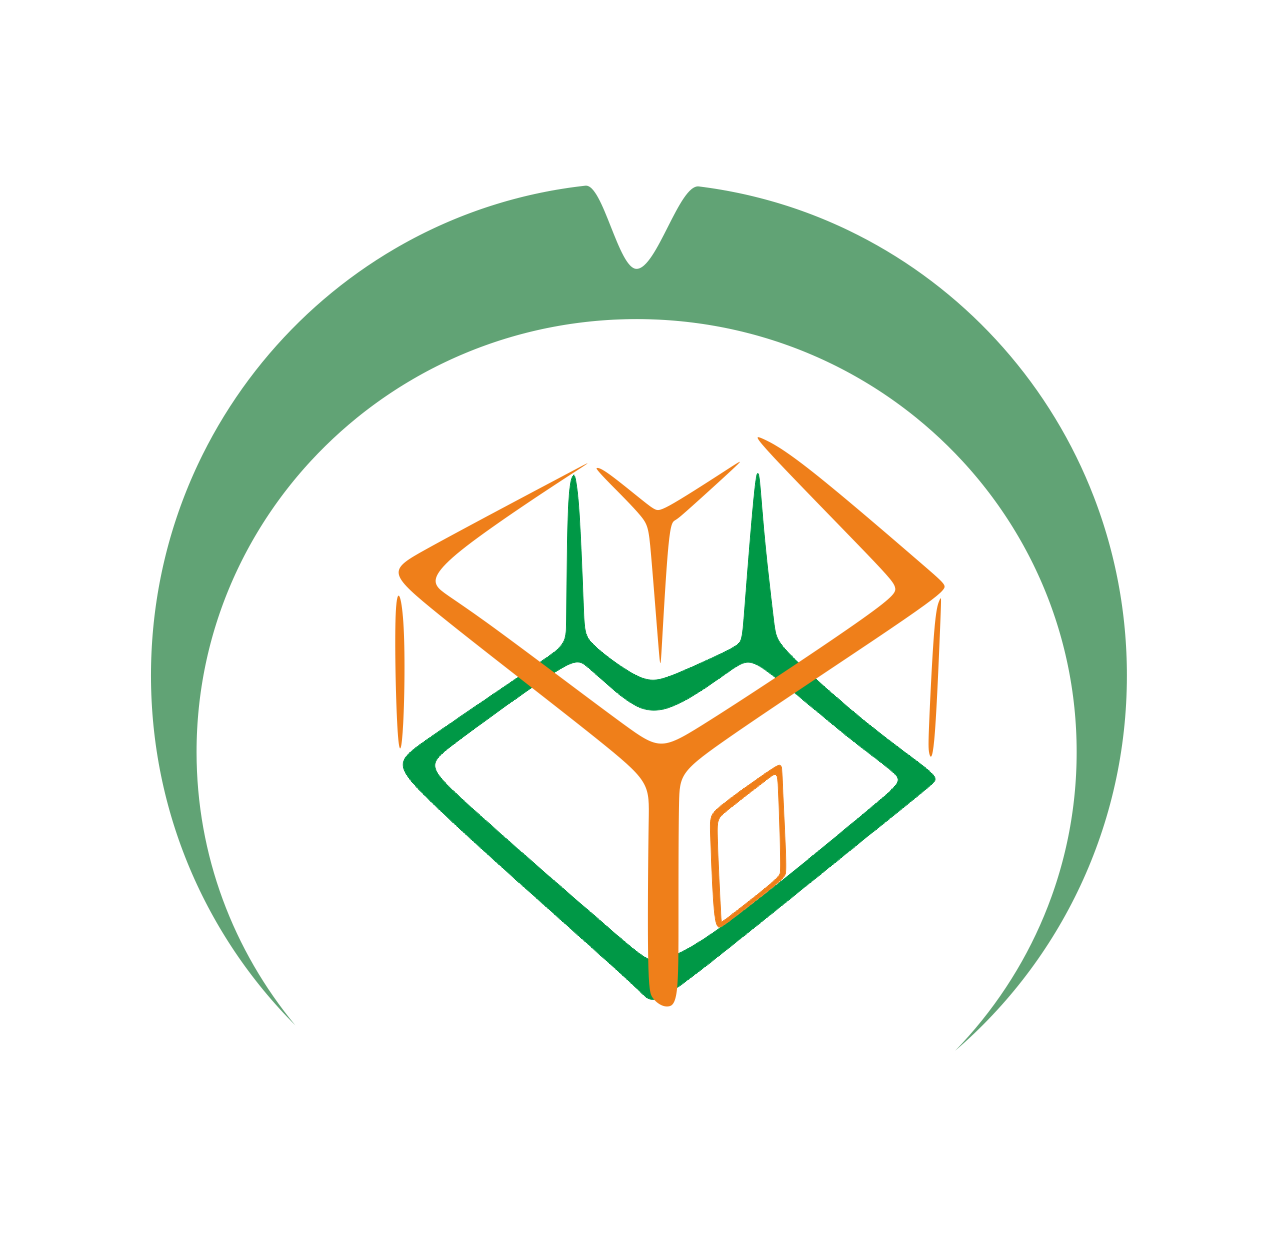
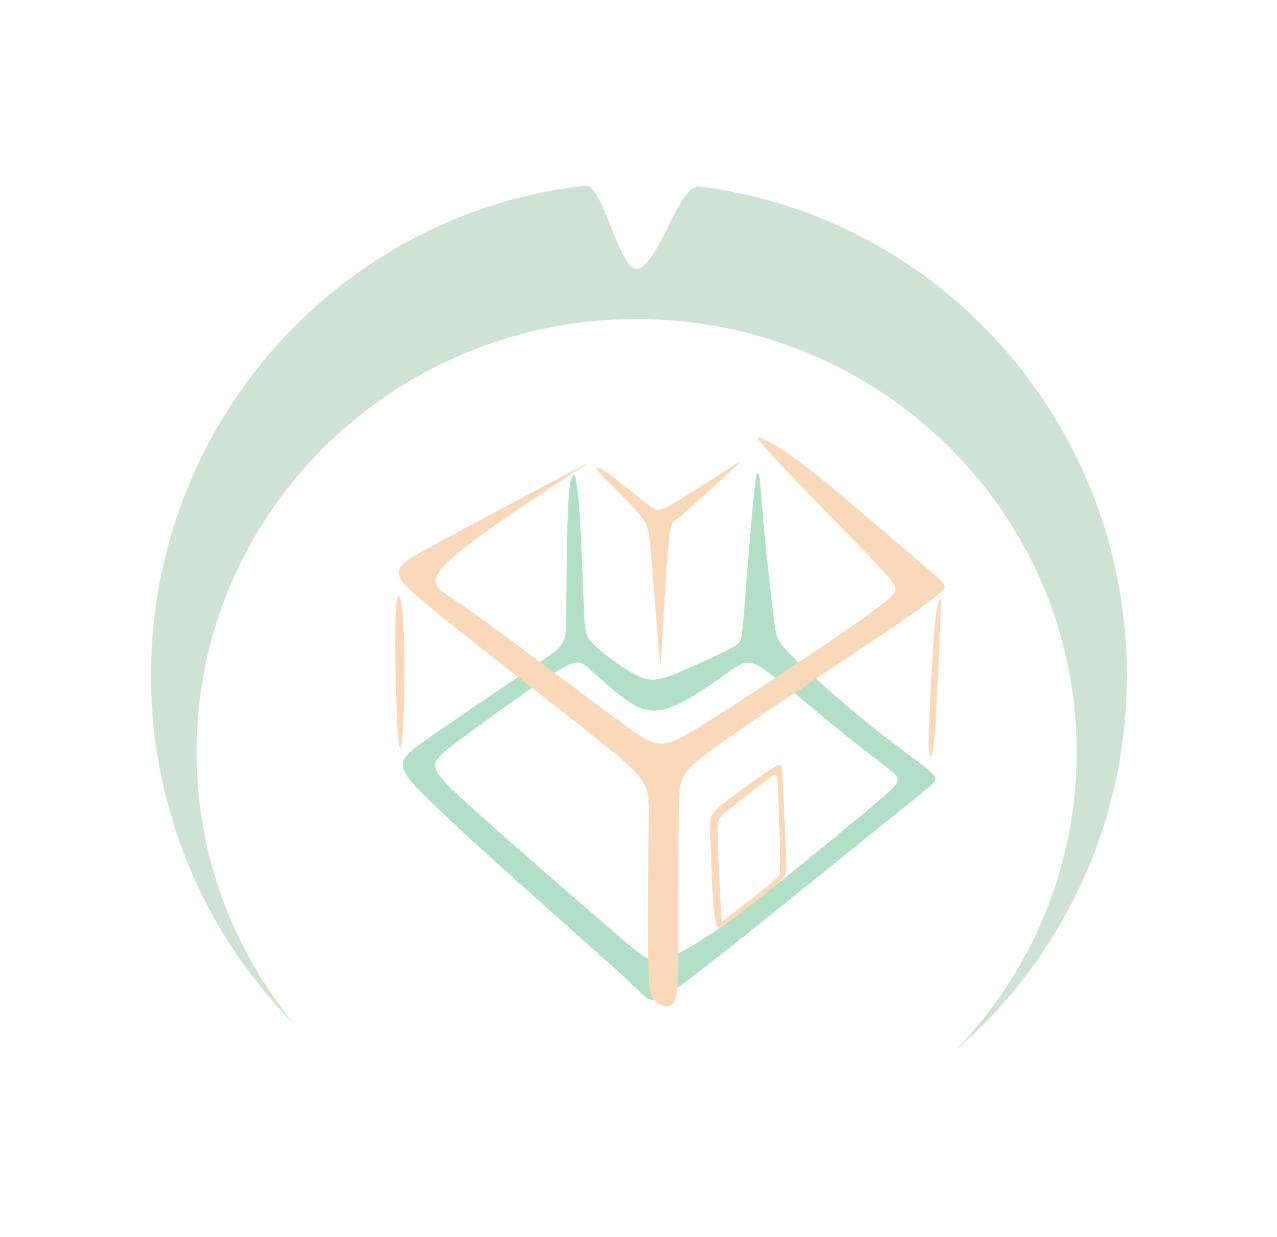
Se diseña arquitectura e inmobiliaria

diff --git a/public/css/style.css b/public/css/style.css
@@ -1,9 +1,12 @@
 /* Copia y pega el código de importación de la fuente */
-@import url('https://fonts.googleapis.com/css2?family=Lilita+One&display=swap');
+@import url('https://fonts.googleapis.com/css2?family=Lilita+One&family=Quicksand:wght@400;700&display=swap');
 a.nav-link {
     color: #d9dada;
     font-family: 'Lilita One', cursive;
     font-size: 20px;
+}
+body{
+  font-family: 'Quicksand', sans-serif;
 }
 a.nav-link:hover {
     color: #61a375;
@@ -67,6 +70,40 @@ div.row-banner{
 .text-primary {
   color: #ef7f1a!important;
 }
+.description-arquitectura{
+  background-image: url("http://localhost/public/images/arquitectura_opacity.png");
+  background-position: center;
+  background-repeat: no-repeat;
+  background-size: contain;
+  position: relative;
+  padding-top: 50px;
+}
+.description-inmobiliario{
+  background-image: url("http://localhost/public/images/inmobiliaria-opacity.png");
+  background-position: center;
+  background-repeat: no-repeat;
+  background-size: contain;
+  position: relative;
+  padding-top: 50px;
+}
+.beneficios{
+  display: flex;
+  align-items: center;
+}
+.container-servicios{
+  font-size: larger;
+}
+.carousel-inner{
+  margin: 2% 2% 2% 0;
+  padding: 0 5% 0 5%;
+}
+.servicios-title{
+  color:  #61a375!important;
+  font-weight: bolder;
+}
+.description-inmobiliario img{
+  width: 50%;
+}
 /* Aquí puedes agregar los estilos específicos para pantallas de dispositivos móviles */
   @media screen and (max-width: 370px) and (max-width: 411px) {
     
@@ -82,6 +119,9 @@ div.row-banner{
     }
     div .hide-on-mobile {
       display: none !important;
+    }
+    .container-servicios{
+      font-size: 5px;
     }
   }
 

diff --git a/views/servicios/inmobiliario/index.php b/views/servicios/inmobiliario/index.php
@@ -2,8 +2,87 @@
 require 'views/index/index.php';
 require 'views/header/index.php';
 ?>
-<div>
-    <h1>INMOBILIARIO</h1>
+<div id="carouselExampleCaptions" class="carousel slide" data-bs-ride="carousel">
+    <h1 class="servicios-title text-center">Inmobiliario y Comercial</h1>
+    <div class="carousel-indicators">
+        <button type="button" data-bs-target="#carouselExampleCaptions" data-bs-slide-to="0" class="active" aria-current="true" aria-label="Slide 1"></button>
+        <button type="button" data-bs-target="#carouselExampleCaptions" data-bs-slide-to="1" aria-label="Slide 2"></button>
+        <button type="button" data-bs-target="#carouselExampleCaptions" data-bs-slide-to="2" aria-label="Slide 3"></button>
+    </div>
+    <div class="carousel-inner">
+        <div class="carousel-item active">
+        <img src="<?php echo constant('URL') ?>public/images/tour-2.jpg" class="d-block w-100" alt="...">
+        <div class="carousel-caption d-none d-md-block">
+            <h5>First slide label</h5>
+            <p>Some representative placeholder content for the first slide.</p>
+        </div>
+        </div>
+        <div class="carousel-item">
+        <img src="<?php echo constant('URL') ?>public/images/tour-2.jpg" class="d-block w-100" alt="...">
+        <div class="carousel-caption d-none d-md-block">
+            <h5>Second slide label</h5>
+            <p>Some representative placeholder content for the second slide.</p>
+        </div>
+        </div>
+        <div class="carousel-item">
+        <img src="<?php echo constant('URL') ?>public/images/tour-2.jpg" class="d-block w-100" alt="...">
+        <div class="carousel-caption d-none d-md-block">
+            <h5>Third slide label</h5>
+            <p>Some representative placeholder content for the third slide.</p>
+        </div>
+        </div>
+    </div>
+    <button class="carousel-control-prev" type="button" data-bs-target="#carouselExampleCaptions" data-bs-slide="prev">
+        <span class="carousel-control-prev-icon" aria-hidden="true"></span>
+        <span class="visually-hidden">Previous</span>
+    </button>
+    <button class="carousel-control-next" type="button" data-bs-target="#carouselExampleCaptions" data-bs-slide="next">
+        <span class="carousel-control-next-icon" aria-hidden="true"></span>
+        <span class="visually-hidden">Next</span>
+    </button>
+</div>
+<div class="container container-servicios">
+    <div class="row description-inmobiliario">
+        <div class="col-lg-6">
+            <p>Promocionamos tus espacios, instalaciones o cualquier proyecto mediante el desarrollo de experiencias audiovisuales inmersivas con el diseño y producción de Tours de Realidad Virtual en plataformas multimediales, con la vinculación de fotografías, videos, renders y montajes en 360 grados.</p>
+            <img class="rounded mx-auto d-block" src="<?php echo constant('URL') ?>public/images/casa_test.png" alt="">
+        </div>
+        <div class="col-lg-6">
+            <p>Es la integración de dos o más imágenes de 360 grados en una interfaz de multimedia, un tour virtual 360 duplica el tráfico de usuarios y reduce los tiempos de  venta o alquiler de un inmueble. 
+            <br>Las visitas virtuales ofrecen a los agentes inmobiliarios la oportunidad de resaltar las características únicas de las propiedades ofertadas. Además, dar a los compradores una mirada detallada del interior, el exterior y sus condiciones </p>
+            <h2>Tour Virtual 360</h2>
+            <ul>
+                <li>Ahorro de tiempo y dinero</li>
+                <li>Mayor alcance y visibilidad +40% de clientes Potenciales</li>
+                <li>Mejora de la experiencia del cliente</li>
+                <li>Diferenciación y competitividad</li>
+                <li>Facilidad de creación y personalización</li>
+            </ul>
+        </div>
+        <div class="col-lg-12">
+            <p>En general, las visitas virtuales 360 son una herramienta muy valiosa para las inmobiliarias que buscan ofrecer una experiencia más completa y satisfactoria a sus clientes.</p>
+            <h2>Beneficios de crear tours virtuales</h2>
+            <p>Los "recorridos" virtuales simulan vistas físicas, lo que le permite interactuar, ver y recorrer cada centímetro de una propiedad. Esto reduce drásticamente el tiempo para encontrar, vender o alquilar una propiedad. Nuestros recorridos son una experiencia inmersiva, que puede llevarse a cabo en la comodidad de su hogar. Esto viene con muchas ventajas y beneficios:</p>
+            <img class="rounded mx-auto d-block" src="<?php echo constant('URL') ?>public/images/captura_inmobiliaria.png" alt="">
+        </div>
+        <div class="col-lg-6">
+            <ul>
+                <li>Cuando los potenciales inquilinos o compradores visitan la propiedad virtualmente y conocen la distribución, proporciones, tamaños, detalles, luz, etc... de una propiedad, hace que las visitas físicas posteriores sean mucho más efectivas.</li>
+                <li>Reduce en un 70% las visitas físicas innecesarias.</li>
+                <li>Puedes alquilar y vender propiedades en la mitad de tiempo (con menos visitas físicas). Ahorra tiempo, ahorra dinero. <br>Por ejemplo: Si en promedio necesitas 10 visitas físicas para vender o alquilar una casa, solo necesitarás 5 si usas primero las visitas virtuales.</li>
+                <li>Puede encontrar mejor a su ¨mejor cliente¨ filtrando prospectos escépticos o desinteresados. En última instancia, esto le dará tiempo para capturar y  comercializar una cartera de bienes raíces más grande.</li>
+                <li> La forma en que comercializa su propiedad es crucial en el proceso de venta-alquiler.</li>
+            </ul>
+        </div>
+        <div class="col-lg-6">
+            <p>La tecnología de realidad virtual aumenta el posicionamiento orgánico de tu agencia en los portales inmobiliarios, potenciando la exposición y las ventas.</p>
+            <ul>
+                <li>Para el sector inmobiliario, un gemelo digital en forma de recorrido virtual en 3D ayuda a los agentes a ganar más vendiendo propiedades más rápido y a un  precio más alto</li>
+                <li> Para viajes y hospitalidad , los recorridos en 3D aumentan las reservas, impulsan tasas de ocupación más altas y aumentan las tasas de participación.</li>
+                <li> Para seguros y restauración , los gemelos digitales son la solución de documentación de pérdidas más rápida y completa que ayuda a cerrar reclamos más rápido, permite la visualización y el ajuste remotos y reduce las disputas en reclamos de propiedad.</li>
+                <li>Para la gestión de instalaciones , los gemelos digitales son una forma eficaz y eficiente de inspeccionar edificios existentes, gestionar el mantenimiento y desarrollar planes de remodelación.</li>
+            </ul>
+        </div>
 </div>
 
 <?php

diff --git a/views/servicios/arquitectura/index.php b/views/servicios/arquitectura/index.php
@@ -2,9 +2,78 @@
 require 'views/index/index.php';
 require 'views/header/index.php';
 ?>
-<div>
-    <h1>ARQUITECTURA</h1>
+<div id="carouselExampleCaptions" class="carousel slide" data-bs-ride="carousel">
+    <h1 class="servicios-title text-center">Arquitectura-Ingenieria-BIM</h1>
+    <div class="carousel-indicators">
+        <button type="button" data-bs-target="#carouselExampleCaptions" data-bs-slide-to="0" class="active" aria-current="true" aria-label="Slide 1"></button>
+        <button type="button" data-bs-target="#carouselExampleCaptions" data-bs-slide-to="1" aria-label="Slide 2"></button>
+        <button type="button" data-bs-target="#carouselExampleCaptions" data-bs-slide-to="2" aria-label="Slide 3"></button>
+    </div>
+    <div class="carousel-inner">
+        <div class="carousel-item active">
+        <img src="<?php echo constant('URL') ?>public/images/panoramica.jpg" class="d-block w-100" alt="...">
+        <div class="carousel-caption d-none d-md-block">
+            <h5>First slide label</h5>
+            <p>Some representative placeholder content for the first slide.</p>
+        </div>
+        </div>
+        <div class="carousel-item">
+        <img src="<?php echo constant('URL') ?>public/images/panoramica.jpg" class="d-block w-100" alt="...">
+        <div class="carousel-caption d-none d-md-block">
+            <h5>Second slide label</h5>
+            <p>Some representative placeholder content for the second slide.</p>
+        </div>
+        </div>
+        <div class="carousel-item">
+        <img src="<?php echo constant('URL') ?>public/images/panoramica.jpg" class="d-block w-100" alt="...">
+        <div class="carousel-caption d-none d-md-block">
+            <h5>Third slide label</h5>
+            <p>Some representative placeholder content for the third slide.</p>
+        </div>
+        </div>
+    </div>
+    <button class="carousel-control-prev" type="button" data-bs-target="#carouselExampleCaptions" data-bs-slide="prev">
+        <span class="carousel-control-prev-icon" aria-hidden="true"></span>
+        <span class="visually-hidden">Previous</span>
+    </button>
+    <button class="carousel-control-next" type="button" data-bs-target="#carouselExampleCaptions" data-bs-slide="next">
+        <span class="carousel-control-next-icon" aria-hidden="true"></span>
+        <span class="visually-hidden">Next</span>
+    </button>
 </div>
+<div class="container container-servicios">
+    <div class="row description-arquitectura">
+        <div class="col-lg-6 ">
+            <p>En construcción es una herramienta de uso en distintas fases de un proyecto.</p>
+            <br>
+            <ul>
+                <li>En la planificación de la construcción</li>
+                <li>Gestión de la construcción</li>
+                <li>La seguridad de la construcción</li>
+                <li>La inspección de la construcción</li>
+            </ul>
+        </div>
+        <div class="col-lg-6 beneficios">
+            <h2>Beneficios</h2>
+            <ul>
+                <li>Seguridad (Dimensional).</li>
+                <li>Confianza en la información exacta como construida.</li>
+                <li>Ahorro de costes del proyecto.</li>
+                <li>Riesgo del proyecto reducido.</li>
+                <li>Disminución en errores de prefabricación.</li>
+                <li>Estudios virtuales de constructibilidad.</li>
+                <li>Tours virtuales de seguridad</li>
+            </ul>
+        </div>
+        <div class="col-lg-12">
+            <p>En donde se destacan:</p>
+            <ul>
+                <li><strong>Reducción de costos:</strong> La simulación de diferentes escenarios y soluciones en el Gemelo Digital puede ayudar a identificar y corregir problemas potenciales antes de que ocurran en el sitio de construcción, lo que reduce los costos y evita retrasos.</li>
+                <li><strong>Optimización de recursos:</strong> El uso de un Gemelo Digital puede ayudar a los contratistas a optimizar el uso de recursos y materiales, lo que reduce el desperdicio y mejora la sostenibilidad del proyecto.</li>
+            </ul>
+        </div>
+</div>
+
 
 <?php
 require 'views/footer/index.php';

diff --git a/views/servicios/index.php b/views/servicios/index.php
@@ -22,7 +22,7 @@ require 'views/header/index.php';
                 <div class="card-body d-flex flex-column align-items-start">
                     <strong class="d-inline-block mb-2 text-primary">ARQUITECTURA-INGENIERIA- BIM</strong>
                     <p class="card-text mb-auto">En construcción es una herramienta de uso en distintas fases de un proyecto.</p>
-                    <a class="continua"class="continua" href="#"><br>Continua leyendo...</a>
+                    <a class="continua"class="continua" href="http://localhost/arquitectura"><br>Continua leyendo...</a>
                 </div>
                 <img class="card-img-right flex-auto d-none d-md-block" data-src="holder.js/200x250?theme=thumb" alt="Thumbnail [200x250]" style="width: 300px; height: auto;" src="<?php echo constant('URL') ?>public/images/arquitectura.png" data-holder-rendered="true">
             </div>
@@ -33,7 +33,7 @@ require 'views/header/index.php';
                 <div class="card-body d-flex flex-column align-items-start">
                     <strong class="d-inline-block mb-2 text-primary">INMOBILIARIO Y COMERCIAL</strong>
                     <p class="card-text mb-auto">Las visitas virtuales ofrecen a los agentes inmobiliarios la oportunidad de resaltar las características únicas.</p>
-                    <a class="continua"href="#">Continua leyendo...</a>
+                    <a class="continua"href="http://localhost/inmobiliario">Continua leyendo...</a>
                 </div>
             </div>
         </div>
@@ -44,7 +44,7 @@ require 'views/header/index.php';
                     <div class="card-body d-flex flex-column align-items-start">
                         <strong class="d-inline-block mb-2 text-primary">HOSTELERIA</strong>
                         <p class="card-text mb-auto">Las visitas virtuales 360 en hostelería ofrecen una serie de ventajas para los negocios del sector.</p>
-                        <a class="continua"href="#">Continua leyendo...</a>
+                        <a class="continua"href="http://localhost/hosteleria">Continua leyendo...</a>
                     </div>
                     <img class="card-img-right flex-auto d-none d-md-block" data-src="holder.js/200x250?theme=thumb" alt="Thumbnail [200x250]" style="width: 300px; height: auto;" src="<?php echo constant('URL') ?>public/images/hosteleria.png" data-holder-rendered="true">
                 </div>
@@ -55,7 +55,7 @@ require 'views/header/index.php';
                     <div class="card-body d-flex flex-column align-items-start">
                         <strong class="d-inline-block mb-2 text-primary">SEGUROS Y PATRIMONIO</strong>
                         <p class="card-text mb-auto">This is a wider card with supporting text below as a natural lead-in to additional content.</p>
-                        <a class="continua"href="#">Continua leyendo...</a>
+                        <a class="continua"href="http://localhost/seguros">Continua leyendo...</a>
                     </div>
                 </div>
             </div>
